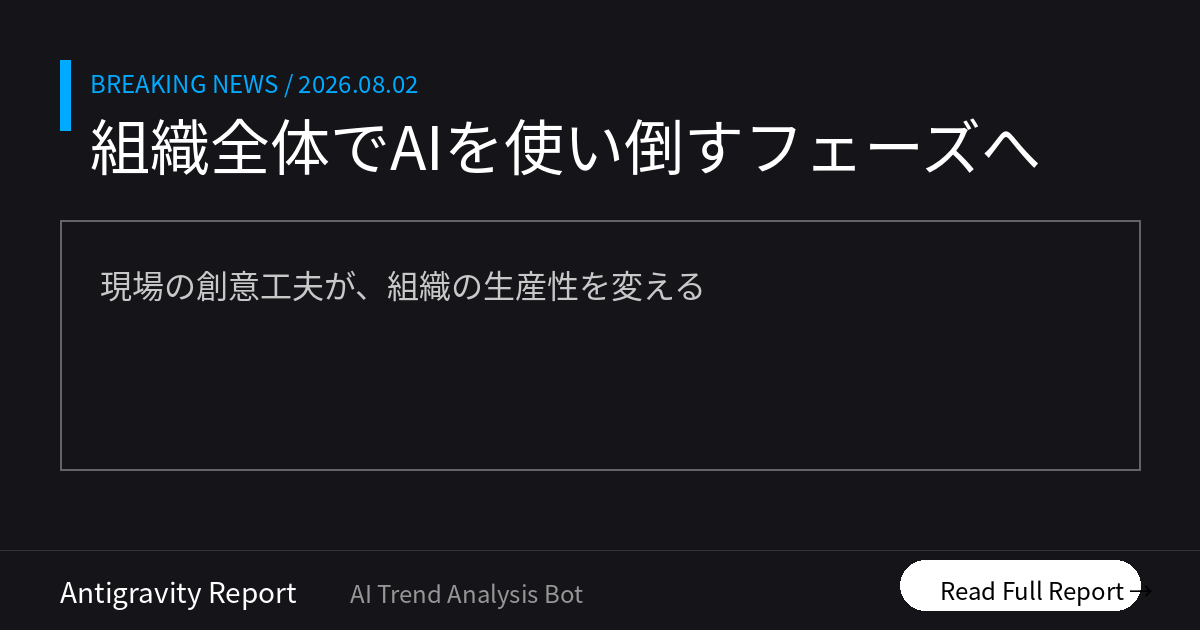
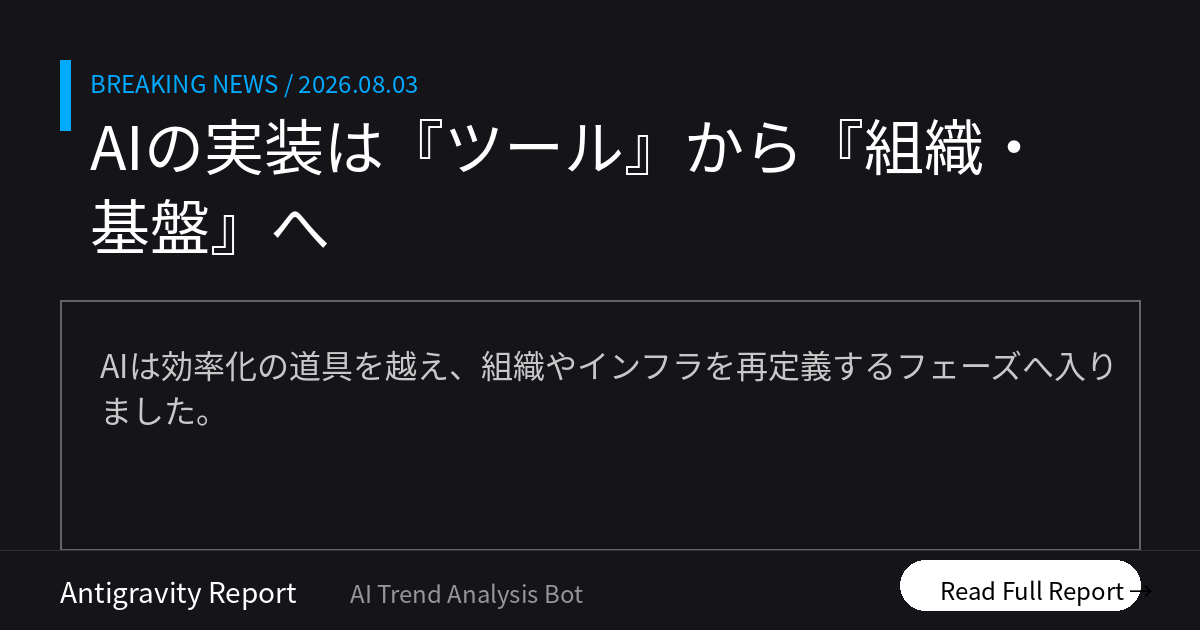
Morning Brief delivered [skip ci]

diff --git a/docs/index.html b/docs/index.html
@@ -12,16 +12,16 @@
     <!-- OGP_START -->
 <meta property="og:type" content="website">
 <meta property="og:site_name" content="AI ニュース TOP10">
-<meta property="og:title" content="組織全体でAIを使い倒すフェーズへ | AI ニュース TOP10">
-<meta property="og:description" content="現場の創意工夫が、組織の生産性を変える 本日のトップ: AI使用量と生産性の相関を実証">
+<meta property="og:title" content="AIの実装は『ツール』から『組織・基盤』へ | AI ニュース TOP10">
+<meta property="og:description" content="AIは効率化の道具を越え、組織やインフラを再定義するフェーズへ入りました。 本日のトップ: AIエージェントで組織を再設計">
 <meta property="og:image" content="https://tadfuji.github.io/ai-news-bot/ogp_latest.png">
 <meta property="og:url" content="https://tadfuji.github.io/ai-news-bot/">
 <meta name="twitter:card" content="summary_large_image">
-<meta name="twitter:title" content="組織全体でAIを使い倒すフェーズへ | AI ニュース TOP10">
-<meta name="twitter:description" content="現場の創意工夫が、組織の生産性を変える">
+<meta name="twitter:title" content="AIの実装は『ツール』から『組織・基盤』へ | AI ニュース TOP10">
+<meta name="twitter:description" content="AIは効率化の道具を越え、組織やインフラを再定義するフェーズへ入りました。">
 <meta name="twitter:image" content="https://tadfuji.github.io/ai-news-bot/ogp_latest.png">
-<meta name="description" content="現場の創意工夫が、組織の生産性を変える 世界のAIニュースを毎朝日本語で厳選してお届け。">
-<script type="application/ld+json">{"@context": "https://schema.org", "@type": "ItemList", "name": "AI ニュース TOP10 — 組織全体でAIを使い倒すフェーズへ", "itemListElement": [{"@type": "ListItem", "position": 1, "name": "ビズリーチが示すAIコストと生産性の相関", "url": "https://www.itmedia.co.jp/business/articles/2608/03/news010.html"}, {"@type": "ListItem", "position": 2, "name": "サイバーエージェントの「AI番付」と全社浸透策", "url": "https://kn.itmedia.co.jp/kn/articles/2608/03/news032.html"}, {"@type": "ListItem", "position": 3, "name": "セールスフォース、AIエージェントで商談4割増を達成", "url": "https://www.itmedia.co.jp/business/articles/2608/03/news030.html"}, {"@type": "ListItem", "position": 4, "name": "ローカルRAG「AnythingLLM」で社外秘情報を安全活用", "url": "https://pc.watch.impress.co.jp/docs/topic/feature/2129359.html"}, {"@type": "ListItem", "position": 5, "name": "サム・アルトマン、AI開発の「ペース調整」に言及", "url": "https://techcrunch.com/2026/08/02/sam-altman-and-ais-decel-debate/"}, {"@type": "ListItem", "position": 6, "name": "Appleの脆弱性報告窓口、AI生成スパムで機能不全", "url": "https://the-decoder.com/a-real-macos-flaw-worth-200k-went-unreported-because-apples-bug-bounty-inbox-was-full-of-ai-slop/"}, {"@type": "ListItem", "position": 7, "name": "職種別AI利用率、情シスを超えたのは「人事・広報」", "url": "https://kn.itmedia.co.jp/kn/articles/2608/03/news020.html"}, {"@type": "ListItem", "position": 8, "name": "OpenAI、次世代モデル「Astra」で数学の難問解決", "url": "https://www.itmedia.co.jp/news/article/2608/03/2000000348/"}, {"@type": "ListItem", "position": 9, "name": "AIが仕掛けるWeb攻撃、既存の防御を89%すり抜ける", "url": "https://www.itmedia.co.jp/news/article/2608/03/2000000287/"}, {"@type": "ListItem", "position": 10, "name": "職種別AI利用率、情シスを超えたのは「人事・広報」", "url": "https://kn.itmedia.co.jp/kn/articles/2608/03/news020.html"}]}</script>
+<meta name="description" content="AIは効率化の道具を越え、組織やインフラを再定義するフェーズへ入りました。 世界のAIニュースを毎朝日本語で厳選してお届け。">
+<script type="application/ld+json">{"@context": "https://schema.org", "@type": "ItemList", "name": "AI ニュース TOP10 — AIの実装は『ツール』から『組織・基盤』へ", "itemListElement": [{"@type": "ListItem", "position": 1, "name": "AI活用を「個人の効率化」で終わらせるな、セールスフォースの組織改革術", "url": "https://www.itmedia.co.jp/business/articles/2608/04/news027.html"}, {"@type": "ListItem", "position": 2, "name": "AIが企業の「将来性」を審査、中小企業の資金調達が加速", "url": "https://www.itmedia.co.jp/business/articles/2608/04/news005.html"}, {"@type": "ListItem", "position": 3, "name": "AI支援の高度なマルウェアが公共Wi-Fiを標的に、Microsoftが警告", "url": "https://pc.watch.impress.co.jp/docs/news/2130140.html"}, {"@type": "ListItem", "position": 4, "name": "Google MeetのAI要約機能、提示されたスライドのスクショを自動添付へ", "url": "http://workspaceupdates.googleblog.com/2026/08/visual-screenshots-now-included-in-Google-Meet-meeting-notes.html"}, {"@type": "ListItem", "position": 5, "name": "法人向けAI PCの基準が変化、メモリ64GBと高スペックNPUが必要な理由", "url": "https://pc.watch.impress.co.jp/docs/topic/special/2128280.html"}, {"@type": "ListItem", "position": 6, "name": "欧州でAI Actが施行、ディープフェイクやAI対話の開示が義務化", "url": "https://www.theverge.com/ai-artificial-intelligence/974571/eu-ai-act-transparency-labels-rules-deepfakes"}, {"@type": "ListItem", "position": 7, "name": "AppleがSiriを大幅刷新、AIアシスタントの利便性が向上", "url": "https://techcrunch.com/2026/08/03/apple-finally-fixed-siri-so-why-does-it-feel-anticlimactic/"}, {"@type": "ListItem", "position": 8, "name": "F1がAIエージェントを導入、データ処理時間を数週間から数分へ短縮", "url": "https://aws.amazon.com/blogs/machine-learning/from-weeks-to-minutes-how-formula-1-uses-agentic-ai-on-aws-to-accelerate-data-operations/"}, {"@type": "ListItem", "position": 9, "name": "Amazonの時価総額が3兆ドル突破、AIブームがクラウド需要を牽引", "url": "https://www.semafor.com/article/08/03/2026/amazon-hits-3-trillion-valuation-on-cloud-earnings"}, {"@type": "ListItem", "position": 10, "name": "AI企業の債務が1.65兆ドルに到達、巨額投資の「隠れたリスク」", "url": "https://fortune.com/2026/07/31/ai-debt-hypescalers-capex-capital-spending-hidden-borrowing-bond-issuance/"}]}</script>
 <!-- OGP_END -->
     <style>
         :root {
@@ -391,16 +391,16 @@
 
         <main id="news-container">
             <!-- PRERENDER_START -->
-<article class="news-card" data-category="ビジネス活用"><div style="display:flex;align-items:center;margin-bottom:5px;"><span class="news-rank">1</span><span class="news-category" data-category="ビジネス活用">ビジネス活用</span></div><div class="news-oneliner">💡 AI使用量と生産性の相関を実証</div><h2 class="news-title">ビズリーチが示すAIコストと生産性の相関</h2><p class="news-summary">ビズリーチは月間100億トークンのAI処理を行い、AI使用量とエンジニアの生産性向上に強い相関があることを実証。コスト削減ではなくアウトプット指標で投資対効果を評価しています。</p><div class="news-why">📌 なぜ重要？ AIを単なるコスト削減ではなく、組織のアウトプットを最大化するための投資と捉える視点が不可欠です。</div><div class="news-action">👉 今日の行動：自社の業務で、AI導入後に向上させたい具体的なアウトプット指標を定義してみましょう。</div><div class="news-meta"><span class="news-source">📰 ITmedia AI+ </span><span class="news-link"><a href="https://www.itmedia.co.jp/business/articles/2608/03/news010.html" target="_blank" rel="noopener">→ 元記事を読む</a></span></div></article>
-<article class="news-card" data-category="ビジネス活用"><div style="display:flex;align-items:center;margin-bottom:5px;"><span class="news-rank">2</span><span class="news-category" data-category="ビジネス活用">ビジネス活用</span></div><div class="news-oneliner">💡 賞金と番付でAIの心理的壁を壊す</div><h2 class="news-title">サイバーエージェントの「AI番付」と全社浸透策</h2><p class="news-summary">社員のAI活用を促すため、賞金1000万円のコンテストや事業部対抗の「AI番付」を導入。実現性を問わずアイデアを募ることで、現場の心理的ハードルを下げています。</p><div class="news-why">📌 なぜ重要？ スキル習得よりも「楽しさ」や「競争心」を刺激し、心理的ハードルを下げる工夫が全社普及の鍵です。</div><div class="news-action">👉 今日の行動：自部署でAI活用事例を共有し合う、ハードルの低い意見交換の場を設けてみてください。</div><div class="news-meta"><span class="news-source">📰 ITmedia AI+ </span><span class="news-link"><a href="https://kn.itmedia.co.jp/kn/articles/2608/03/news032.html" target="_blank" rel="noopener">→ 元記事を読む</a></span></div></article>
-<article class="news-card" data-category="ビジネス活用"><div style="display:flex;align-items:center;margin-bottom:5px;"><span class="news-rank">3</span><span class="news-category" data-category="ビジネス活用">ビジネス活用</span></div><div class="news-oneliner">💡 自律エージェントで商談を4割増</div><h2 class="news-title">セールスフォース、AIエージェントで商談4割増を達成</h2><p class="news-summary">自社製品「Agentforce」を導入し、Webサイト対応の自律完結により商談数を4〜5割増加させました。シンプルで高頻度な作業から任せる運用の重要性を強調しています。</p><div class="news-why">📌 なぜ重要？ AIを導入して終わりにせず、教育し続ける運用体制を構築することが、営業利益に直結します。</div><div class="news-action">👉 今日の行動：日常の「高頻度で単純な作業」をリスト化し、AIエージェントへの代行可能性を検討してください。</div><div class="news-meta"><span class="news-source">📰 ITmedia AI+ </span><span class="news-link"><a href="https://www.itmedia.co.jp/business/articles/2608/03/news030.html" target="_blank" rel="noopener">→ 元記事を読む</a></span></div></article>
-<article class="news-card" data-category="ビジネス活用"><div style="display:flex;align-items:center;margin-bottom:5px;"><span class="news-rank">4</span><span class="news-category" data-category="ビジネス活用">ビジネス活用</span></div><div class="news-oneliner">💡 ローカルRAGで機密を安全に扱う</div><h2 class="news-title">ローカルRAG「AnythingLLM」で社外秘情報を安全活用</h2><p class="news-summary">PC内で完結するAIツールを活用し、機密データをクラウドに送らずにナレッジベースを構築。ハルシネーションを抑えた正確な情報検索をローカル環境で実現します。</p><div class="news-why">📌 なぜ重要？ セキュリティ上の制約がある環境でも、ローカル環境のAIなら安全に社外秘の資料を分析可能です。</div><div class="news-action">👉 今日の行動：PC内で完結するAIツールを使い、外部公開できない社内資料の要約効率を試してみてください。</div><div class="news-meta"><span class="news-source">📰 PC Watch</span><span class="news-link"><a href="https://pc.watch.impress.co.jp/docs/topic/feature/2129359.html" target="_blank" rel="noopener">→ 元記事を読む</a></span></div></article>
-<article class="news-card" data-category="リスク・規制"><div style="display:flex;align-items:center;margin-bottom:5px;"><span class="news-rank">5</span><span class="news-category" data-category="リスク・規制">リスク・規制</span></div><div class="news-oneliner">💡 安全性の為に開発ペースを調整へ</div><h2 class="news-title">サム・アルトマン、AI開発の「ペース調整」に言及</h2><p class="news-summary">社会の適応とセキュリティ強化の時間を確保するため、AI開発のペースを調整する可能性を示唆。加速一辺倒ではなく、安全性と社会制度との整合性が重視されています。</p><div class="news-why">📌 なぜ重要？ AIの進化速度が社会の受容能力を超えるリスクが懸念されており、企業にも責任ある活用が求められます。</div><div class="news-action">👉 今日の行動：AIを業務に導入する際の、安全性や倫理に関するガイドラインを改めて見直してみましょう。</div><div class="news-meta"><span class="news-source">📰 TechCrunch AI</span><span class="news-link"><a href="https://techcrunch.com/2026/08/02/sam-altman-and-ais-decel-debate/" target="_blank" rel="noopener">→ 元記事を読む</a></span></div></article>
-<article class="news-card" data-category="リスク・規制"><div style="display:flex;align-items:center;margin-bottom:5px;"><span class="news-rank">6</span><span class="news-category" data-category="リスク・規制">リスク・規制</span></div><div class="news-oneliner">💡 大量のAIゴミが業務プロセスを阻害</div><h2 class="news-title">Appleの脆弱性報告窓口、AI生成スパムで機能不全</h2><p class="news-summary">Appleのセキュリティ窓口が、AIで生成された質の低い「偽のバグ報告」により麻痺状態に。AIスロップ（ゴミ）が実務上の重大なプロセスを阻害する深刻な事例です。</p><div class="news-why">📌 なぜ重要？ AIによる大量生成物が、実在の重大なリスク報告を埋もれさせる「AIスロップ」問題への警戒が必要です。</div><div class="news-action">👉 今日の行動：外部からの問い合わせフォームに、AIによる自動送信を排除する仕組みがあるか再点検してください。</div><div class="news-meta"><span class="news-source">📰 The Decoder</span><span class="news-link"><a href="https://the-decoder.com/a-real-macos-flaw-worth-200k-went-unreported-because-apples-bug-bounty-inbox-was-full-of-ai-slop/" target="_blank" rel="noopener">→ 元記事を読む</a></span></div></article>
-<article class="news-card" data-category="日本市場"><div style="display:flex;align-items:center;margin-bottom:5px;"><span class="news-rank">7</span><span class="news-category" data-category="日本市場">日本市場</span></div><div class="news-oneliner">💡 人事と広報がAI利用率でエンジニア超え</div><h2 class="news-title">職種別AI利用率、情シスを超えたのは「人事・広報」</h2><p class="news-summary">東京都と大阪府の調査によると、人事・採用およびマーケティング・広報職のAI利用率が65.1%に達し、エンジニア・情報システム職（57.4%）を上回りました。特に「総務・法務」職では約58%が作業時間の短縮を実感しており、文章作成や情報収集・リサーチといった非エンジニア領域での活用が急速に浸透している実態が明らかになっています。</p><div class="news-why">📌 なぜ重要？ 非専門職でもAI活用が当たり前になりつつあり、出遅れると職種内での相対的な評価に影響します。</div><div class="news-action">👉 今日の行動：他職種の活用事例を参考に、自分の定型業務（メール返信やリサーチ）をAIに代替させてみましょう。</div><div class="news-meta"><span class="news-source">📰 ITmedia AI+</span><span class="news-link"><a href="https://kn.itmedia.co.jp/kn/articles/2608/03/news020.html" target="_blank" rel="noopener">→ 元記事を読む</a></span></div></article>
-<article class="news-card" data-category="対話型AI"><div style="display:flex;align-items:center;margin-bottom:5px;"><span class="news-rank">8</span><span class="news-category" data-category="対話型AI">対話型AI</span></div><div class="news-oneliner">💡 次世代AI「Astra」が数学の難問解決</div><h2 class="news-title">OpenAI、次世代モデル「Astra」で数学の難問解決</h2><p class="news-summary">米OpenAIは、次期主力モデル「Astra」の社内版を用い、10年以上未解決だった数学の難問10件を解決したと発表しました。高度な推論能力と、自身で論理を組み立て「Lean」という証明支援言語で形式化する能力を備えています。これにより、AIが単なる文章生成ツールを超え、科学的発見や高度な論理的思考を支援するパートナーへと進化しつつあることを示しています。</p><div class="news-why">📌 なぜ重要？ AIの思考能力が飛躍的に向上することで、来週の仕事での複雑なロジック作成や検証もAIが担えるようになります。</div><div class="news-action">👉 今日の行動：現在のAIが苦手としている複雑な条件の論理パズルを投げて、今のAIの限界を把握しておきましょう。</div><div class="news-meta"><span class="news-source">📰 ITmedia AI+</span><span class="news-link"><a href="https://www.itmedia.co.jp/news/article/2608/03/2000000348/" target="_blank" rel="noopener">→ 元記事を読む</a></span></div></article>
-<article class="news-card" data-category="リスク・規制"><div style="display:flex;align-items:center;margin-bottom:5px;"><span class="news-rank">9</span><span class="news-category" data-category="リスク・規制">リスク・規制</span></div><div class="news-oneliner">💡 防御壁を8割突破するAI攻撃の脅威</div><h2 class="news-title">AIが仕掛けるWeb攻撃、既存の防御を89%すり抜ける</h2><p class="news-summary">攻撃用AIがWAF（ウェブアプリケーション・ファイアウォール）の検知ルールをマシンスピードで試行錯誤し、難読化されたコードで防御を回避する実例が報告されました。SQLインジェクションなどの攻撃において、オープンソースのWAFで89%の突破率を記録。AIが脆弱性発見から攻撃コード生成、試行までを自動化する段階に入っており、防御側にもAIによる動的な対策が求められています。</p><div class="news-why">📌 なぜ重要？ 自社のウェブサービスが従来のセキュリティ対策だけでは防げないリスクにさらされている可能性があります。</div><div class="news-action">👉 今日の行動：自社のIT・セキュリティ担当に対し、AIを用いた攻撃への備えについて現時点の状況を確認してください。</div><div class="news-meta"><span class="news-source">📰 ITmedia AI+</span><span class="news-link"><a href="https://www.itmedia.co.jp/news/article/2608/03/2000000287/" target="_blank" rel="noopener">→ 元記事を読む</a></span></div></article>
-<article class="news-card" data-category="日本市場"><div style="display:flex;align-items:center;margin-bottom:5px;"><span class="news-rank">10</span><span class="news-category" data-category="日本市場">日本市場</span></div><div class="news-oneliner">💡 非エンジニア職のAI活用が加速中</div><h2 class="news-title">職種別AI利用率、情シスを超えたのは「人事・広報」</h2><p class="news-summary">調査によると、人事やマーケティング職のAI利用率が65.1%に達し、エンジニアを上回りました。非エンジニア領域での業務時短効果が顕著に現れています。</p><div class="news-why">📌 なぜ重要？ バックオフィス職種こそAIによる時短効果を享受しやすく、全社的なリテラシー向上が急務です。</div><div class="news-action">👉 今日の行動：他部署で成果を上げているAIの活用法を聞き出し、自分の業務に転用できないか考えてみましょう。</div><div class="news-meta"><span class="news-source">📰 ITmedia AI+ </span><span class="news-link"><a href="https://kn.itmedia.co.jp/kn/articles/2608/03/news020.html" target="_blank" rel="noopener">→ 元記事を読む</a></span></div></article>
+<article class="news-card" data-category="ビジネス活用"><div style="display:flex;align-items:center;margin-bottom:5px;"><span class="news-rank">1</span><span class="news-category" data-category="ビジネス活用">ビジネス活用</span></div><div class="news-oneliner">💡 AIエージェントで組織を再設計</div><h2 class="news-title">AI活用を「個人の効率化」で終わらせるな、セールスフォースの組織改革術</h2><p class="news-summary">セールスフォース・ジャパンは300以上のAIエージェントを稼働させ、独自の「4R」フレームワークで組織変革を断行。個人の効率化を超えたAI前提の組織モデルを構築しています。</p><div class="news-why">📌 なぜ重要？ 単なる効率化ではなく、AI前提の組織構造（AX）への変革が企業の競争力を左右します。</div><div class="news-action">👉 今日の行動：自部署の業務で「AIに任せられる役割」を1つ定義してみてください。</div><div class="news-meta"><span class="news-source">📰 ITmedia AI+</span><span class="news-link"><a href="https://www.itmedia.co.jp/business/articles/2608/04/news027.html" target="_blank" rel="noopener">→ 元記事を読む</a></span></div></article>
+<article class="news-card" data-category="ビジネス活用"><div style="display:flex;align-items:center;margin-bottom:5px;"><span class="news-rank">2</span><span class="news-category" data-category="ビジネス活用">ビジネス活用</span></div><div class="news-oneliner">💡 AI審査で中小の資金調達が加速</div><h2 class="news-title">AIが企業の「将来性」を審査、中小企業の資金調達が加速</h2><p class="news-summary">金融機関の融資審査に生成AIが導入され、非構造化データを分析。2026年の新法施行を背景に、無形資産を評価するデータ駆動型融資が中小企業やスタートアップで広がっています。</p><div class="news-why">📌 なぜ重要？ 財務データ以外の情報が評価対象となり、企業の将来性が正当に評価される時代になります。</div><div class="news-action">👉 今日の行動：自社のデジタル上の評判や発信内容を客観的に棚卸ししてみてください。</div><div class="news-meta"><span class="news-source">📰 ITmedia AI+</span><span class="news-link"><a href="https://www.itmedia.co.jp/business/articles/2608/04/news005.html" target="_blank" rel="noopener">→ 元記事を読む</a></span></div></article>
+<article class="news-card" data-category="リスク・規制"><div style="display:flex;align-items:center;margin-bottom:5px;"><span class="news-rank">3</span><span class="news-category" data-category="リスク・規制">リスク・規制</span></div><div class="news-oneliner">💡 AI悪用マルウェアが公共Wi-Fiを標的</div><h2 class="news-title">AI支援の高度なマルウェアが公共Wi-Fiを標的に、Microsoftが警告</h2><p class="news-summary">ロシア系脅威アクターがAI支援で作成されたとみられる高度なツールを使用し、ホテル等の公共Wi-Fiで資格情報を窃取する攻撃を展開。極めて高い隠蔽性を持っています。</p><div class="news-why">📌 なぜ重要？ AIにより攻撃の隠蔽性が高まっており、身近な場所でのリスクが激増しています。</div><div class="news-action">👉 今日の行動：外出先での公共Wi-Fi利用を控え、テザリング等の安全な回線を徹底してください。</div><div class="news-meta"><span class="news-source">📰 PC Watch</span><span class="news-link"><a href="https://pc.watch.impress.co.jp/docs/news/2130140.html" target="_blank" rel="noopener">→ 元記事を読む</a></span></div></article>
+<article class="news-card" data-category="ビジネス活用"><div style="display:flex;align-items:center;margin-bottom:5px;"><span class="news-rank">4</span><span class="news-category" data-category="ビジネス活用">ビジネス活用</span></div><div class="news-oneliner">💡 議事録にスライド画像が自動添付</div><h2 class="news-title">Google MeetのAI要約機能、提示されたスライドのスクショを自動添付へ</h2><p class="news-summary">Google Meetの自動メモ作成機能が強化され、提示資料のスクリーンショットを要約に含めることが可能に。視覚情報の補完により、振り返りや共有の精度が向上します。</p><div class="news-why">📌 なぜ重要？ 視覚情報の自動補完により、会議の欠席者への情報共有の質が大幅に向上します。</div><div class="news-action">👉 今日の行動：次回のWeb会議で自動要約機能を有効にして使い勝手を試してください。</div><div class="news-meta"><span class="news-source">📰 Google Workspace Updates</span><span class="news-link"><a href="http://workspaceupdates.googleblog.com/2026/08/visual-screenshots-now-included-in-Google-Meet-meeting-notes.html" target="_blank" rel="noopener">→ 元記事を読む</a></span></div></article>
+<article class="news-card" data-category="ビジネス活用"><div style="display:flex;align-items:center;margin-bottom:5px;"><span class="news-rank">5</span><span class="news-category" data-category="ビジネス活用">ビジネス活用</span></div><div class="news-oneliner">💡 AI時代のPCはメモリ64GBが新基準</div><h2 class="news-title">法人向けAI PCの基準が変化、メモリ64GBと高スペックNPUが必要な理由</h2><p class="news-summary">Copilot+ PCの普及に伴い、AIを業務で使いこなすにはNPU性能に加え、ブラウザの多用やマルチタスクに耐えうる大容量メモリ（64GB）が新たな標準となりつつあります。</p><div class="news-why">📌 なぜ重要？ AIを秘書として常駐させるには、PCの物理的な基礎体力が業務効率を決定します。</div><div class="news-action">👉 今日の行動：次回PCを新調する際は、NPU性能とメモリ容量を最優先で確認してください。</div><div class="news-meta"><span class="news-source">📰 PC Watch</span><span class="news-link"><a href="https://pc.watch.impress.co.jp/docs/topic/special/2128280.html" target="_blank" rel="noopener">→ 元記事を読む</a></span></div></article>
+<article class="news-card" data-category="リスク・規制"><div style="display:flex;align-items:center;margin-bottom:5px;"><span class="news-rank">6</span><span class="news-category" data-category="リスク・規制">リスク・規制</span></div><div class="news-oneliner">💡 EUでAI生成物の表示が義務化</div><h2 class="news-title">欧州でAI Actが施行、ディープフェイクやAI対話の開示が義務化</h2><p class="news-summary">EUの包括的なAI法に基づき、チャットボットとの対話やAI生成コンテンツであることを明示する透明性ルールが施行。世界的な基準となる可能性が高い規制です。</p><div class="news-why">📌 なぜ重要？ グローバル基準となる規制への対応は、日本企業の海外展開においても必須要件です。</div><div class="news-action">👉 今日の行動：自社で利用・提供するツールが「AI製」であることを明示しているか確認を。</div><div class="news-meta"><span class="news-source">📰 The Verge AI</span><span class="news-link"><a href="https://www.theverge.com/ai-artificial-intelligence/974571/eu-ai-act-transparency-labels-rules-deepfakes" target="_blank" rel="noopener">→ 元記事を読む</a></span></div></article>
+<article class="news-card" data-category="対話型AI"><div style="display:flex;align-items:center;margin-bottom:5px;"><span class="news-rank">7</span><span class="news-category" data-category="対話型AI">対話型AI</span></div><div class="news-oneliner">💡 Siri刷新で日常の音声操作が加速</div><h2 class="news-title">AppleがSiriを大幅刷新、AIアシスタントの利便性が向上</h2><p class="news-summary">AppleのAI刷新により、Siriが文脈を理解する高度なAI秘書へと進化。アプリを跨いだ操作やパーソナライズされた提案が可能になり、音声操作の利便性が向上します。</p><div class="news-why">📌 なぜ重要？ 文脈を理解するアシスタントの普及により、業務のインターフェースが激変します。</div><div class="news-action">👉 今日の行動：Siriの設定を見直し、音声でのリマインダー登録などを試してみてください。</div><div class="news-meta"><span class="news-source">📰 TechCrunch AI</span><span class="news-link"><a href="https://techcrunch.com/2026/08/03/apple-finally-fixed-siri-so-why-does-it-feel-anticlimactic/" target="_blank" rel="noopener">→ 元記事を読む</a></span></div></article>
+<article class="news-card" data-category="ビジネス活用"><div style="display:flex;align-items:center;margin-bottom:5px;"><span class="news-rank">8</span><span class="news-category" data-category="ビジネス活用">ビジネス活用</span></div><div class="news-oneliner">💡 F1のデータ処理を数週間から数分に</div><h2 class="news-title">F1がAIエージェントを導入、データ処理時間を数週間から数分へ短縮</h2><p class="news-summary">F1はAWSのAIエージェントを活用し、ファンデータの統合・分析を自動化。従来最大8週間かかっていた作業を40分に短縮し、意思決定のスピードを劇的に高めました。</p><div class="news-why">📌 なぜ重要？ 自律型AIエージェントの導入により、データ処理の爆速化と意思決定の即時性が実現します。</div><div class="news-action">👉 今日の行動：数日かかる定型的なデータ集計作業が自動化できないか検討してみてください。</div><div class="news-meta"><span class="news-source">📰 AWS Machine Learning</span><span class="news-link"><a href="https://aws.amazon.com/blogs/machine-learning/from-weeks-to-minutes-how-formula-1-uses-agentic-ai-on-aws-to-accelerate-data-operations/" target="_blank" rel="noopener">→ 元記事を読む</a></span></div></article>
+<article class="news-card" data-category="ビジネス活用"><div style="display:flex;align-items:center;margin-bottom:5px;"><span class="news-rank">9</span><span class="news-category" data-category="ビジネス活用">ビジネス活用</span></div><div class="news-oneliner">💡 AI需要でAmazon時価総額3兆ドル</div><h2 class="news-title">Amazonの時価総額が3兆ドル突破、AIブームがクラウド需要を牽引</h2><p class="news-summary">生成AIブームに伴うAWSの爆発的な需要増により、Amazonの時価総額が過去最高の3兆ドルを突破。AI導入がクラウド収益の主要な柱として定着しています。</p><div class="news-why">📌 なぜ重要？ 生成AIがクラウド需要を牽引し、AIが主要な収益基盤として定着した証左です。</div><div class="news-action">👉 今日の行動：自社のクラウド利用コストに占めるAI関連の比率をチェックしてみてください。</div><div class="news-meta"><span class="news-source">📰 Semafor Technology</span><span class="news-link"><a href="https://www.semafor.com/article/08/03/2026/amazon-hits-3-trillion-valuation-on-cloud-earnings" target="_blank" rel="noopener">→ 元記事を読む</a></span></div></article>
+<article class="news-card" data-category="ビジネス活用"><div style="display:flex;align-items:center;margin-bottom:5px;"><span class="news-rank">10</span><span class="news-category" data-category="ビジネス活用">ビジネス活用</span></div><div class="news-oneliner">💡 AI投資に伴う1.6兆ドルの債務リスク</div><h2 class="news-title">AI企業の債務が1.65兆ドルに到達、巨額投資の「隠れたリスク」</h2><p class="news-summary">AI普及を支えるテック巨人の巨額投資が債務として膨らみ、総額1.65兆ドルに達するとの分析。将来的な収益化への懸念から市場の警戒感が高まりつつあります。</p><div class="news-why">📌 なぜ重要？ 巨額投資が収益に結びつくかという警戒感は、今後の市場を左右する重要指標です。</div><div class="news-action">👉 今日の行動：テック企業のAI投資に対する収益化の進捗をニュースで注視してください。</div><div class="news-meta"><span class="news-source">📰 Hacker News AI</span><span class="news-link"><a href="https://fortune.com/2026/07/31/ai-debt-hypescalers-capex-capital-spending-hidden-borrowing-bond-issuance/" target="_blank" rel="noopener">→ 元記事を読む</a></span></div></article>
 <!-- PRERENDER_END -->
         </main>
 
